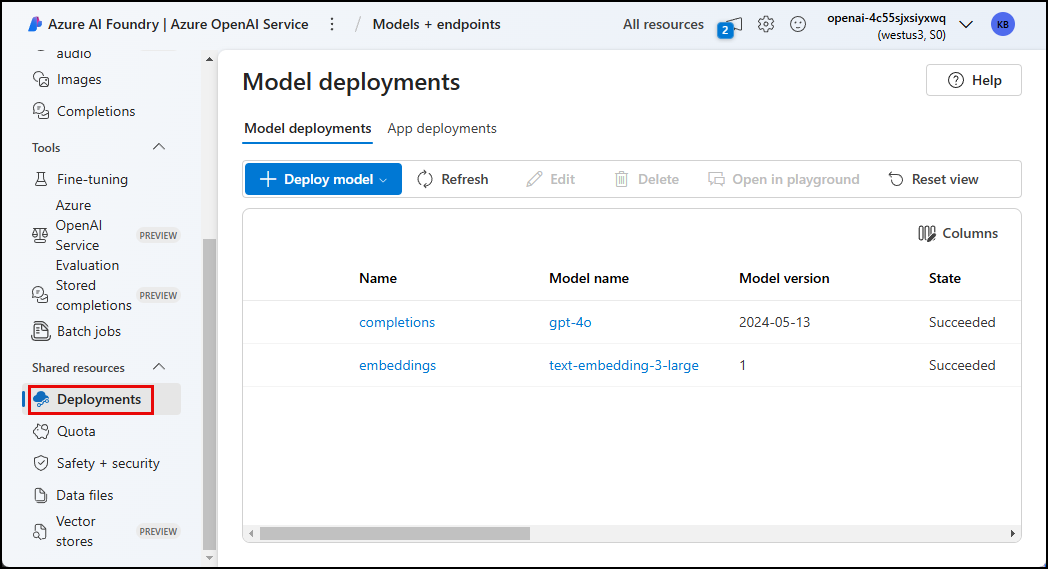
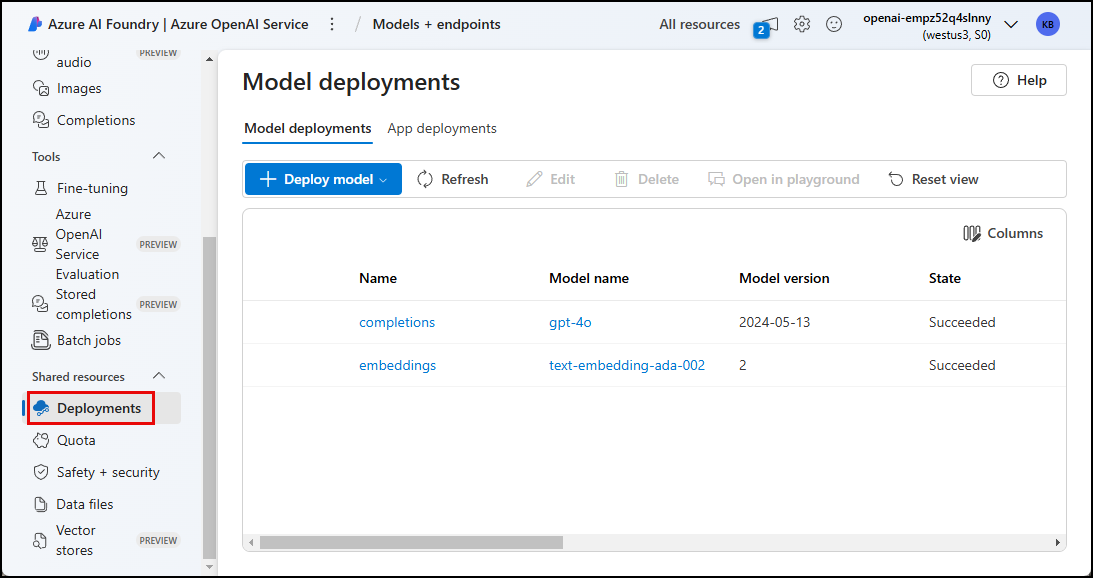
Updating embedding model and dimension size

diff --git a/infra/data_workflow.py b/infra/data_workflow.py
@@ -88,7 +88,7 @@ def generate_embeddings(text_chunks):
     for chunk in text_chunks:
         response = openai.Embedding.create(
             input=chunk,
-            model="text-embedding-ada-002"  # Replace with "text-embedding-3-large" if available
+            model="text-embedding-ada-002"  # Replace with "text-embedding-ada-002" if available
         )
         embeddings.append(response['data'][0]['embedding'])
     return embeddings

diff --git a/docs/workshop/docs/03-Integrate-AI-Into-PostgreSQL/03.md b/docs/workshop/docs/03-Integrate-AI-Into-PostgreSQL/03.md
@@ -14,7 +14,7 @@ The `vector` data type install by the **pgvector** extension allows for the effi
 
 Below, you will `vector` columns to the `deliverables`, `invoice_line_items`, `invoice_validation_results`,  `sow_chunks`, and `sow_validation_results` tables. Each of these tables contains a column storing a block of text. The vector embeddings will be stored alongside the text which they represent.
 
-!!! info "The size of the vector column should correspond to the number of dimensions generated by the embedding model being used. For this solution, you are using OpenAI's `text-embedding-3-large` model, which is configured to return 3,072 dimensions. You will see this number represented in the size of the vector columns added to the tables below."
+!!! info "The size of the vector column should correspond to the number of dimensions generated by the embedding model being used. For this solution, you are using OpenAI's `text-embedding-ada-002` model, which is configured to return 1,536 dimensions. You will see this number represented in the size of the vector columns added to the tables below."
 
 Using **pgAdmin**, execute the SQL statement for each table.
 
@@ -25,7 +25,7 @@ _Select the tab for each table below and execute the `ALTER TABLE` statement to 
     Copy and paste the following SQL statement into a new query window in pgAdmin, then execute the query to add the embedding vector column.
 
     ```sql
-    ALTER TABLE deliverables ADD COLUMN IF NOT EXISTS embedding vector(3072);
+    ALTER TABLE deliverables ADD COLUMN IF NOT EXISTS embedding vector(1536);
     ```
 
 === "invoice_line_items"
@@ -33,7 +33,7 @@ _Select the tab for each table below and execute the `ALTER TABLE` statement to 
     Copy and paste the following SQL statement into a new query window in pgAdmin, then execute the query to add the embedding vector column.
 
     ```sql
-    ALTER TABLE invoice_line_items ADD COLUMN IF NOT EXISTS embedding vector(3072);
+    ALTER TABLE invoice_line_items ADD COLUMN IF NOT EXISTS embedding vector(1536);
     ```
 
 === "invoice_validation_results"
@@ -41,7 +41,7 @@ _Select the tab for each table below and execute the `ALTER TABLE` statement to 
     Copy and paste the following SQL statement into a new query window in pgAdmin, then execute the query to add the embedding vector column.
 
     ```sql
-    ALTER TABLE invoice_validation_results ADD COLUMN IF NOT EXISTS embedding vector(3072);
+    ALTER TABLE invoice_validation_results ADD COLUMN IF NOT EXISTS embedding vector(1536);
     ```
 
 === "sow_chunks"
@@ -49,7 +49,7 @@ _Select the tab for each table below and execute the `ALTER TABLE` statement to 
     Copy and paste the following SQL statement into a new query window in pgAdmin, then execute the query to add the embedding vector column.
     
     ```sql
-    ALTER TABLE sow_chunks ADD COLUMN IF NOT EXISTS embedding vector(3072);
+    ALTER TABLE sow_chunks ADD COLUMN IF NOT EXISTS embedding vector(1536);
     ```
 
 === "sow_validation_results"
@@ -57,5 +57,5 @@ _Select the tab for each table below and execute the `ALTER TABLE` statement to 
     Copy and paste the following SQL statement into a new query window in pgAdmin, then execute the query to add the embedding vector column.
 
     ```sql
-    ALTER TABLE sow_validation_results ADD COLUMN IF NOT EXISTS embedding vector(3072);
+    ALTER TABLE sow_validation_results ADD COLUMN IF NOT EXISTS embedding vector(1536);
     ```

diff --git a/docs/workshop/docs/05-Build-Copilot/03.md b/docs/workshop/docs/05-Build-Copilot/03.md
@@ -59,7 +59,7 @@ To allow search results against the database to use traditional full-text search
     !!! info "PostgreSQL Hybrid Search Function"
 
         ```sql linenums="1" title="get_similar_invoices"
-        CREATE OR REPLACE FUNCTION get_similar_invoices(query_text TEXT, max_results INT DEFAULT 5, vendor INT DEFAULT NULL)
+        CREATE OR REPLACE FUNCTION get_similar_invoices(query_text TEXT, max_results INT DEFAULT 5, vendor INT DEFAULT NULL, sow INT DEFAULT NULL)
         RETURNS TABLE(
             id BIGINT,
             number TEXT,
@@ -73,25 +73,25 @@ To allow search results against the database to use traditional full-text search
             validation_passed BOOLEAN,
             rank REAL
         ) AS $$
-        DECLARE 
-            query_embedding vector(3072);
+        DECLARE query_embedding vector(1536);
         BEGIN
             query_embedding := (
                 azure_openai.create_embeddings('embeddings', query_text, max_attempts => 5, retry_delay_ms => 500)::vector
             );
-        
-            RETURN QUERY
-            SELECT i.id, i.number, i.vendor_id, i.sow_id, i.amount, i.invoice_date, i.payment_status, r.datestamp, r.result, r.validation_passed,
-                CASE
-                    WHEN r.result ILIKE '%' || query_text || '%' THEN 0 -- Exact match ranks highest
-                    ELSE (r.embedding <=> query_embedding)::real
-                END AS rank
-            FROM invoices AS i
-            INNER JOIN invoice_validation_results as r ON i.id = r.invoice_id -- Only get invoices that have validation results
+            
+                RETURN QUERY
+                SELECT i.id, i.number, i.vendor_id, i.sow_id, i.amount, i.invoice_date, i.payment_status, r.datestamp, r.result, r.validation_passed,
+                    CASE
+                        WHEN r.result ILIKE '%' || query_text || '%' THEN 0 -- Exact match ranks highest
+                        ELSE (r.embedding <=> query_embedding)::real
+                    END AS rank
+                FROM invoices AS i
+                INNER JOIN invoice_validation_results as r ON i.id = r.invoice_id -- Only get invoices that have validation results
             WHERE (i.vendor_id = vendor OR vendor IS NULL)
+                AND (i.sow_id = sow OR sow IS NULL)
             ORDER BY rank ASC
             LIMIT max_results;
-        END $$ LANGUAGE plpgsql
+        END $$ LANGUAGE plpgsql;
         ```
         
         In this function:

diff --git a/docs/workshop/docs/03-Integrate-AI-Into-PostgreSQL/04.md b/docs/workshop/docs/03-Integrate-AI-Into-PostgreSQL/04.md
@@ -1,6 +1,6 @@
 # 3.4 Vectorize data
 
-By leveraging an embedding model, such as Azure OpenAI's `text-embedding-3-large`, you can generate vector representations of textual data and store them in a vector store like Azure Database for PostgreSQL - Flexible Server. This approach facilitates efficient and accurate similarity searches, significantly enhancing the copilot's ability to retrieve relevant information and provide contextually rich interactions.
+By leveraging an embedding model, such as Azure OpenAI's `text-embedding-ada-002`, you can generate vector representations of textual data and store them in a vector store like Azure Database for PostgreSQL - Flexible Server. This approach facilitates efficient and accurate similarity searches, significantly enhancing the copilot's ability to retrieve relevant information and provide contextually rich interactions.
 
 The `azure_openai` schema installed by the `azure_ai` extension contains the `create_embeddings()` function, which enables you to generate embeddings for text input by invoking an embedding model deployed in Azure OpenAI directly from a query.
 
@@ -44,7 +44,7 @@ To demonstrate how you can generate vector embeddings through a SQL query, execu
 
         1. Open Azure AI Foundry from the landing page of your Azure OpenAI service.
         2. In Azure AI Foundry, select the **Deployments** option from the resource navigation menu.
-        3. Observe the **Name** associated with the `text-embedding-3-large` model.
+        3. Observe the **Name** associated with the `text-embedding-ada-002` model.
     
             ![Screenshot of Azure AI Foundry, with the Deployments page selcted and highlighted. The embeddings model deployment name is highlighted.](../img/azure-ai-foundry-deployments-embeddings.png)
 
@@ -56,7 +56,7 @@ To demonstrate how you can generate vector embeddings through a SQL query, execu
         1 | {-0.031766646,-0.033289704,0.0009468119,...,0.016508864,0.031440277}
     ```
 
-    For brevity, the 3,072 dimensions in the vector are abbreviated in the above output.
+    For brevity, the 1,536 dimensions in the vector are abbreviated in the above output.
 
 ## Vectorize existing data
 

diff --git a/docs/README.md b/docs/README.md
@@ -99,7 +99,7 @@ To deploy and explore the sample, you will need:
 1. An active GitHub account - [Signup for a free account here](https://github.com/signup)
 1. Access to Azure OpenAI Services - [Learn about Limited Access here](https://learn.microsoft.com/legal/cognitive-services/openai/limited-access)
 1. Access to Azure AI Search - [With Semantic Ranker](https://learn.microsoft.com/azure/search/semantic-search-overview) (premiun feature)
-1. Available Quota for: `text-embedding-ada-002`, `gpt-35-turbo`. and `gpt-4`
+1. Available Quota for: `text-embedding-ada-002` and `gpt-4o`
 
 We recommend deployments to `swedencentral` or `francecentral` as regions that can support all these models. In addition to the above, you will also need the ability to:
 
@@ -296,7 +296,7 @@ The solution is deployed using the Azure Developer CLI. The `azd up` command eff
 
 ### Region Availability
 
-This template currently uses the following models: `gpt35-turbo`, `gpt-4` and `text-embedding-ada-002`, which may not be available in all Azure regions, or may lack sufficient quota for your subscription in supported regions. Check for [up-to-date region availability](https://learn.microsoft.com/azure/ai-services/openai/concepts/models#standard-deployment-model-availability) and select a region during deployment accordingly
+This template currently uses the following models: `gpt-4o` and `text-embedding-ada-002`, which may not be available in all Azure regions, or may lack sufficient quota for your subscription in supported regions. Check for [up-to-date region availability](https://learn.microsoft.com/azure/ai-services/openai/concepts/models#standard-deployment-model-availability) and select a region during deployment accordingly
 
 **We recommend using `francecentral`**
 

diff --git a/docs/workshop/docs/02-Setup/1-Provision-And-Setup/01-Self-Guided.md b/docs/workshop/docs/02-Setup/1-Provision-And-Setup/01-Self-Guided.md
@@ -189,9 +189,9 @@ You will need to install the required software locally and provision the Azure i
 
     ## 3.1 Select an Azure region for your workshop resources
 
-    To ensure you can successfully deploy the Azure resources using the `azd up` command, you must choose a region that supports the required Azure OpenAI `gpt-4o` and `text-embedding-3-large` models.
+    To ensure you can successfully deploy the Azure resources using the `azd up` command, you must choose a region that supports the required Azure OpenAI `gpt-4o` and `text-embedding-ada-002` models.
 
-    1. Before deciding on the Azure region you want to use for your workshop resources, review the regional availability guidance for the [gpt-4o](https://learn.microsoft.com/azure/ai-services/openai/concepts/models?tabs=global-standard%2Cstandard-chat-completions#standard-models-by-endpoint) and [text-embedding-3-large](https://learn.microsoft.com/azure/ai-services/openai/concepts/models?tabs=global-standard%2Cstandard-embeddings#standard-models-by-endpoint) models in Azure OpenAI.
+    1. Before deciding on the Azure region you want to use for your workshop resources, review the regional availability guidance for the [gpt-4o](https://learn.microsoft.com/azure/ai-services/openai/concepts/models?tabs=global-standard%2Cstandard-chat-completions#standard-models-by-endpoint) and [text-embedding-ada-002](https://learn.microsoft.com/azure/ai-services/openai/concepts/models?tabs=global-standard%2Cstandard-embeddings#standard-models-by-endpoint) models in Azure OpenAI.
     
     2. Choose a region that **supports both models** and has quota available.
 

diff --git a/docs/workshop/docs/02-Setup/1-Provision-And-Setup/03-Validation.md b/docs/workshop/docs/02-Setup/1-Provision-And-Setup/03-Validation.md
@@ -103,7 +103,7 @@ The `azd up` command included steps to deploy the Woodgrove Bank application int
 
 !!! tip "The Azure AI Foundry portal lets you view and manage the Azure AI resources for your app."
 
-You will use the Azure AI Foundry portal to verify the `gpt-4o` and `text-embedding-3-large` models were deployed into your Azure OpenAI service.
+You will use the Azure AI Foundry portal to verify the `gpt-4o` and `text-embedding-ada-002` models were deployed into your Azure OpenAI service.
 
 1. In the Azure portal, return to the resource group containing your resources and select the **Azure OpenAI** resource.
 
@@ -117,7 +117,7 @@ You will use the Azure AI Foundry portal to verify the `gpt-4o` and `text-embedd
 
     ![Screenshot of Azure AI Foundry, with the Deployments menu item highlighted and selected. The completions and embeddings model deployments are displayed.](../../img/azure-ai-foundry-deployments.png)
 
-4. Verify you see a `completions` deployment for the `gpt-4o` model and an `embeddings` deployment for the `text-embedding-3-large` model.
+4. Verify you see a `completions` deployment for the `gpt-4o` model and an `embeddings` deployment for the `text-embedding-ada-002` model.
 
 ## 4. Verify Semantic Ranker Model Deployment (optional)
 

diff --git a/docs/workshop/docs/05-Build-Copilot/index.md b/docs/workshop/docs/05-Build-Copilot/index.md
@@ -30,7 +30,7 @@ To understand how the RAG design pattern works in the context of the _Woodgrove 
 
     !!! info "Embeddings representing the user query are generated."
     
-    The `/chat` endpoint sends the user request to Azure Database for PostgreSQL, where the `azure_ai` extension calls Azure OpenAI to vectorize the user's text input using a Large Language "Embedding" Model (e.g., Azure Open AI `text-embedding-3-large`). This vector is then used in the query to retrieve similar records in the next step.
+    The `/chat` endpoint sends the user request to Azure Database for PostgreSQL, where the `azure_ai` extension calls Azure OpenAI to vectorize the user's text input using a Large Language "Embedding" Model (e.g., Azure Open AI `text-embedding-ada-002`). This vector is then used in the query to retrieve similar records in the next step.
 
 === "3. **Retrieve** Similar Data"
 

diff --git a/docs/workshop/docs/01-Introduction/02-App-Architecture.md b/docs/workshop/docs/01-Introduction/02-App-Architecture.md
@@ -70,7 +70,7 @@ _Click each tab below to learn more about how the movement of data in the contex
 
     2. The REACT SPA sends these chat messages to the `/chat` API endpoint hosted in ACA.
 
-    3. The request query is embedded using the `text-embedding-3-large` model in Azure OpenAI.
+    3. The request query is embedded using the `text-embedding-ada-002` model in Azure OpenAI.
 
     4. A **hybrid search** is performed on the Azure Database for PostgreSQL flexible server, where the system searches for relevant data.
 

diff --git a/docs/workshop/docs/04-Create-AI-Pipeline/01.md b/docs/workshop/docs/04-Create-AI-Pipeline/01.md
@@ -55,8 +55,8 @@ To enable advanced AI functionalities, such as semantic search and ranking, the 
   - A new column is added to the database to store high-dimensional vector embeddings of the document text:
 
     ```sql
-    ALTER TABLE invoices ADD COLUMN embeddings VECTOR(3072);
-    ALTER TABLE sows ADD COLUMN embeddings VECTOR(3072);
+    ALTER TABLE invoices ADD COLUMN embeddings VECTOR(1536);
+    ALTER TABLE sows ADD COLUMN embeddings VECTOR(1536);
     ```
 
 - **Embedding Generation**:
